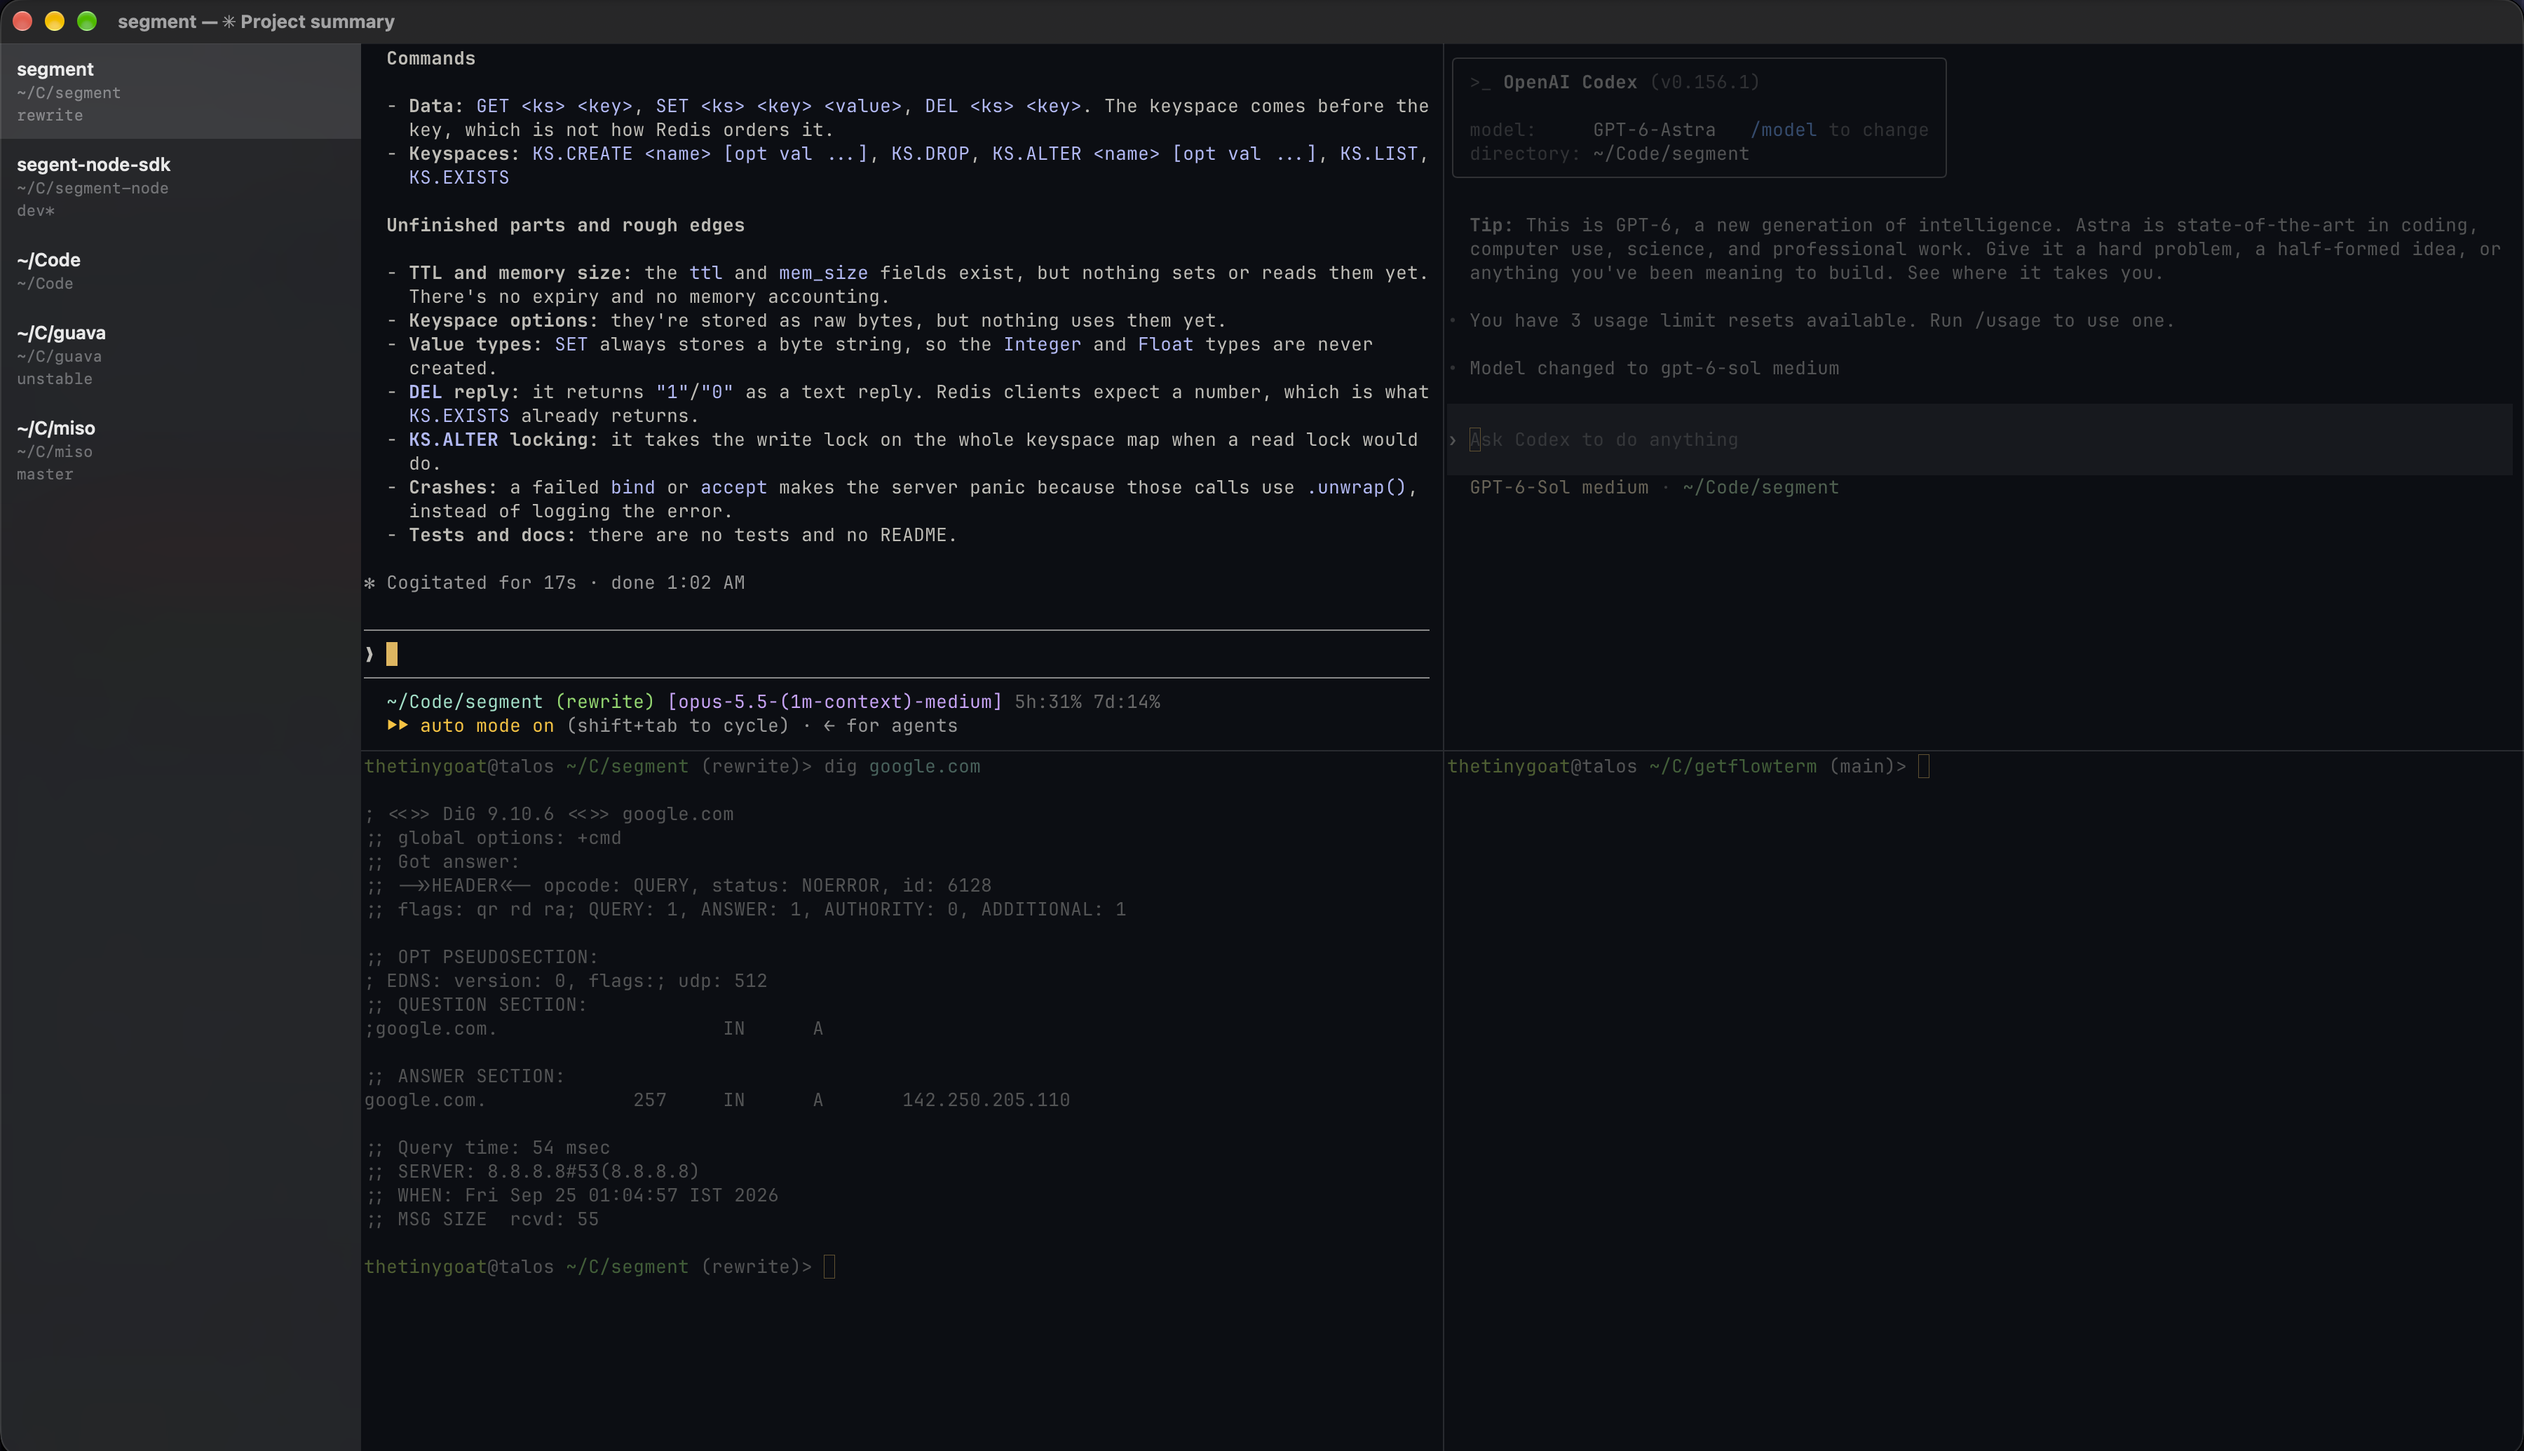
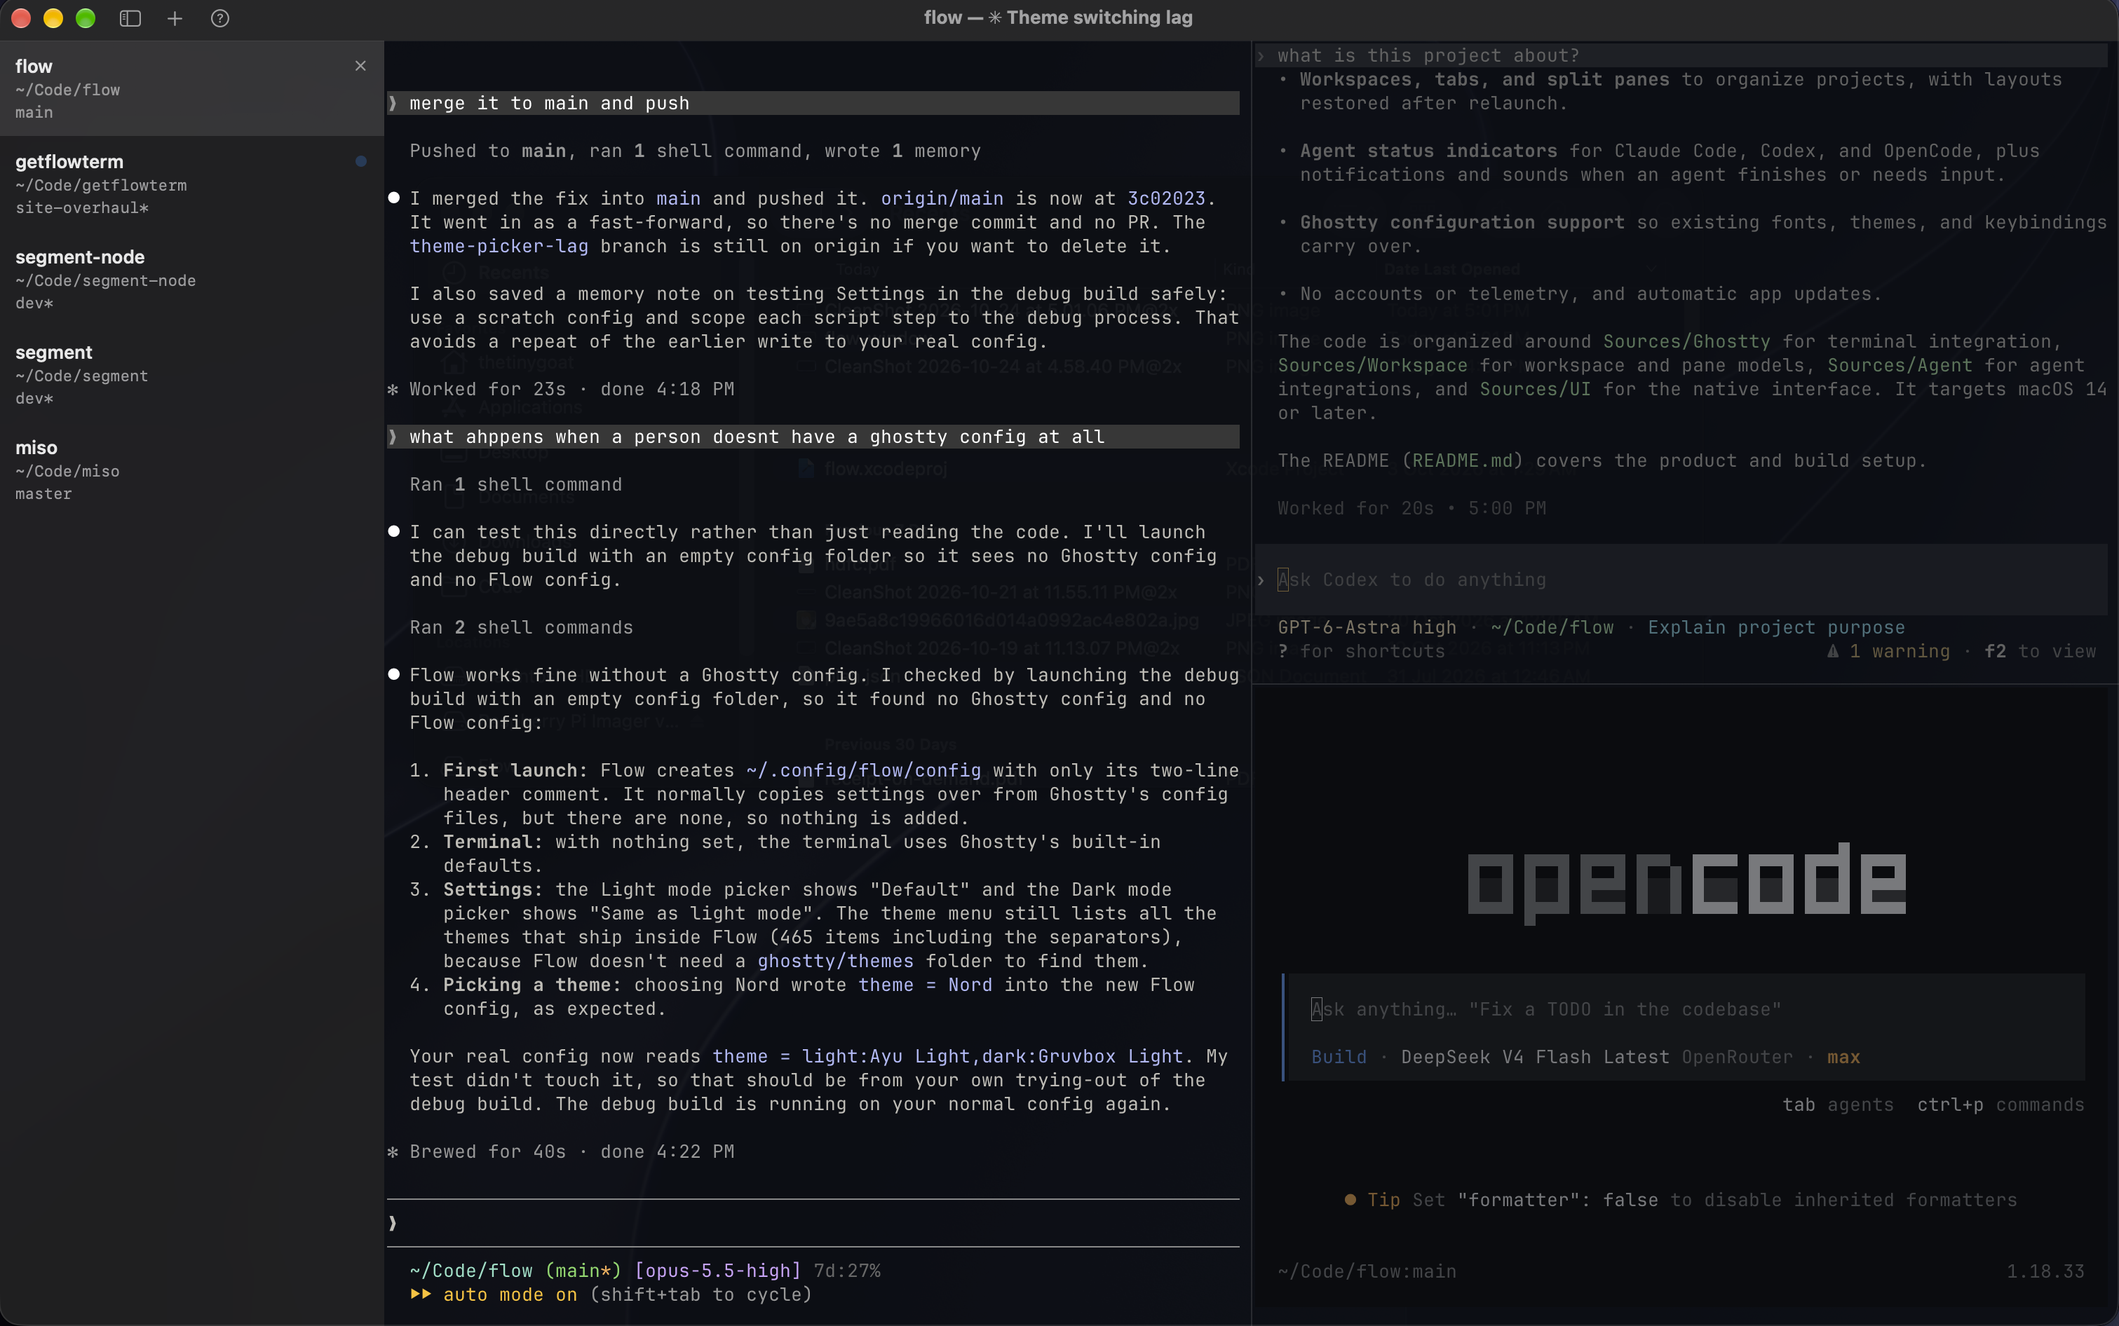
Describe Settings and Flow's own config file in the README, with a new screenshot

diff --git a/README.md b/README.md
@@ -16,7 +16,7 @@
 
 A fast, native terminal built on Ghostty, for everyday work. Run a fleet of agents or just a shell. Flow stays deliberately minimal and simple, with no accounts and no telemetry.
 
-![Flow with Claude Code, Codex and shells side by side in split panes, and workspaces with their git branches in the sidebar](assets/screenshot.png)
+![Flow with Claude Code, Codex and OpenCode side by side in split panes, and workspaces with their paths and git branches in the sidebar](assets/screenshot.png)
 
 ## Why Flow?
 
@@ -38,7 +38,7 @@ Flow updates itself.
 
 ## Getting around
 
-Each project gets its own workspace in the sidebar, with its own tabs and split panes. Flow reopens everything as you left it.
+Each project gets its own workspace in the sidebar, with its own tabs and split panes. A workspace is named after the git repository it's in, with its path and branch underneath. Flow reopens everything as you left it.
 
 After a relaunch, restored terminals start when you first view them. Once started, they keep running when you switch to another tab or workspace.
 
@@ -50,8 +50,9 @@ Drag workspaces up or down in the sidebar to reorder them. Flow remembers their 
 | <kbd>⌘</kbd><kbd>T</kbd>              | New tab          |
 | <kbd>⌘</kbd><kbd>D</kbd>              | Split right      |
 | <kbd>⌘</kbd><kbd>1</kbd>–<kbd>9</kbd> | Switch workspace |
+| <kbd>⌘</kbd><kbd>,</kbd>              | Settings         |
 
-Hold <kbd>⌘</kbd> to see the shortcut for each workspace. The [docs](https://getflowterm.app/docs/keyboard-shortcuts/) list the rest.
+Click the <kbd>?</kbd> button in the title bar to see every shortcut. The [docs](https://getflowterm.app/docs/keyboard-shortcuts/) list them too.
 
 ## Agents
 
@@ -63,7 +64,7 @@ Run `claude`, `codex` or `opencode` in a Flow terminal and the workspace shows w
 | Yellow         | The agent is waiting for you                         |
 | Green          | A turn finished while you were looking elsewhere     |
 
-Looking at the terminal clears the green dot. A terminal you are not looking at also gets a macOS notification, which focuses it when clicked, and a sound: one when an agent needs you, another when it finishes.
+Looking at the terminal clears the green dot. A terminal you are not looking at also gets a macOS notification, which focuses it when clicked, and a sound: one when an agent needs you, another when it finishes. Pick the sounds, or turn them and the notifications off, in **Settings › Notifications**.
 
 Flow does this through the agents' own hooks and plugins, added to each launch and nothing else. It never writes to `~/.claude`, `~/.codex` or `~/.config/opencode`, and an agent started outside Flow behaves exactly as before. There is nothing to set up for fish and zsh. Two things need a step from you:
 
@@ -79,7 +80,9 @@ To run an agent without Flow's hooks for one session, start it with `FLOW_AGENTS
 
 ## Configuration
 
-Flow has no config file of its own. It reads your Ghostty config, so your fonts, themes and keybindings carry over. Choose **Flow › Settings…** to open it.
+Choose **Flow › Settings…** (<kbd>⌘</kbd><kbd>,</kbd>) to pick the shell, a theme for light mode and one for dark mode, the font, cursor, window opacity and blur, and agent sounds. The sidebar and title bar follow the theme, so a dark theme gets a dark sidebar even in light mode.
+
+Settings writes to `~/.config/flow/config`, a plain text file in Ghostty's format that you can also edit by hand. The first time Flow opens, it copies your Ghostty config into this file, so your fonts, theme and keybindings carry over. After that, Flow reads only its own file. Settings changes only the lines it needs to and keeps your comments. **Settings › Advanced** opens the file in your editor and lists any problems in it. See [Configuration](https://getflowterm.app/docs/configuration/) for more.
 
 Flow aims to support every Ghostty setting, but some don't work in Flow yet. If a setting you rely on has no effect, [open an issue](https://github.com/thetinygoat/flow/issues/new).
 
@@ -112,6 +115,8 @@ The tests cover the models and terminal lifecycle without launching the app.
 | -------------------- | ------------------------------------------------------------------------------------------------ |
 | `Sources/Ghostty/`   | The wrapper around libghostty's C API, with the runtime, config, input and terminal view         |
 | `Sources/Workspace/` | The workspace, tab and pane model. It's generic over `PaneLeaf`, so tests run without terminals. |
+| `Sources/Agent/`     | Each terminal's agent status, its notifications and sounds, and the socket agents report to      |
+| `Sources/Settings/`  | The Settings window and the reader and writer for Flow's config file                             |
 | `Sources/UI/`        | The AppKit window, with the sidebar on the left and terminals on the right                       |
 | `Tests/`             | Unit tests for the model                                                                         |
 
